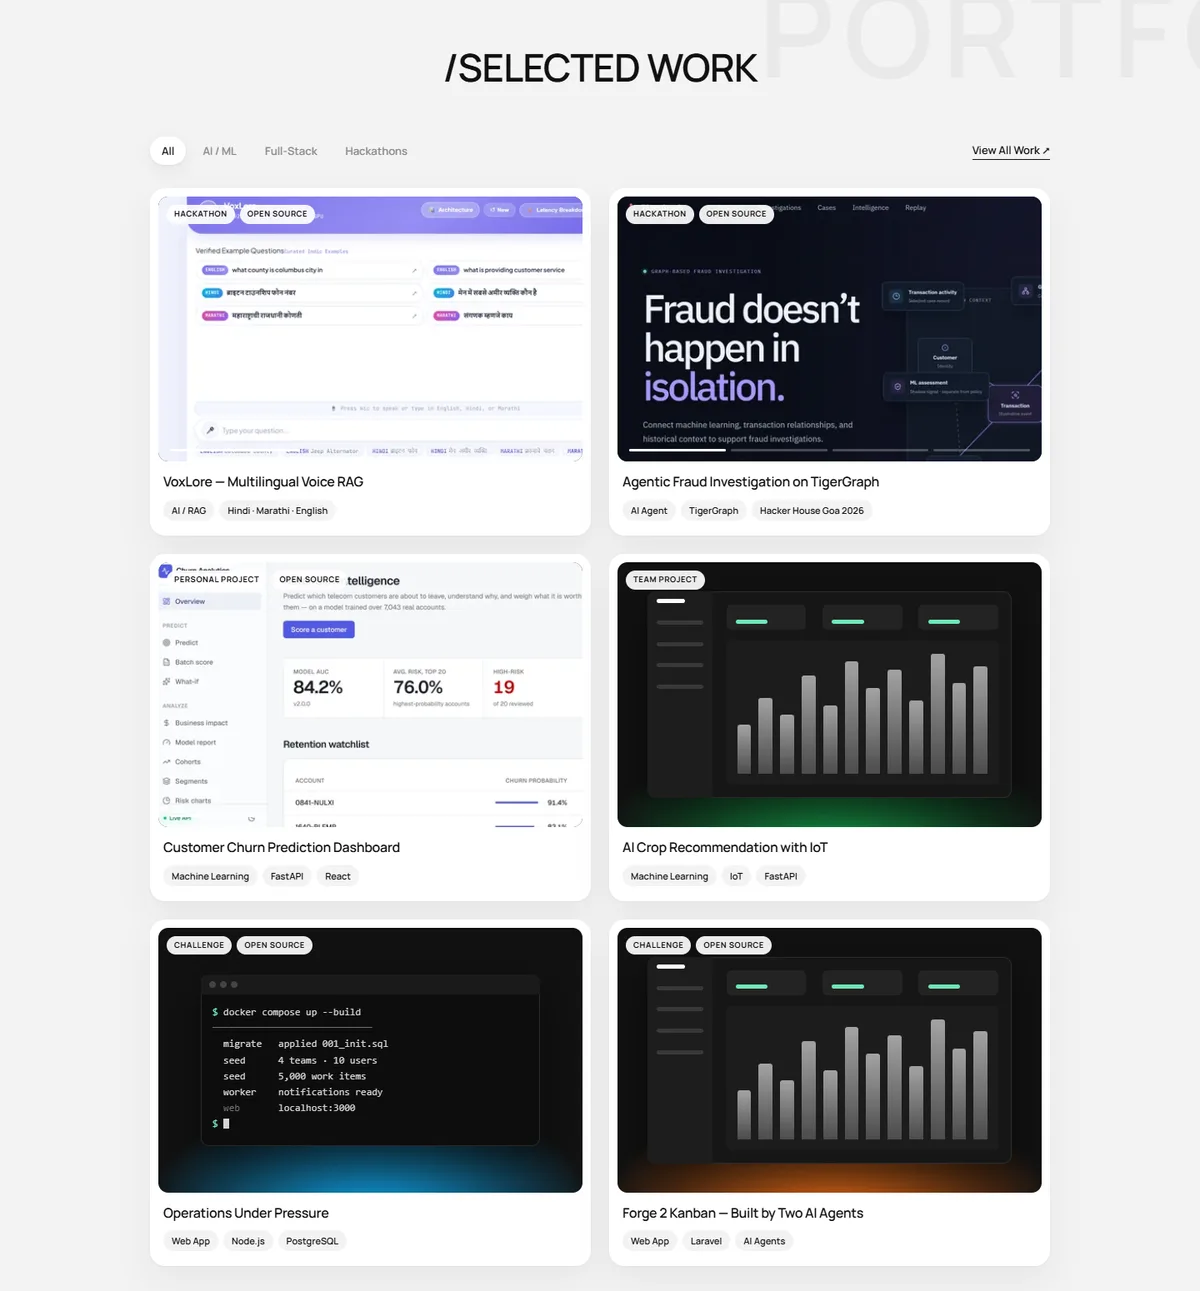
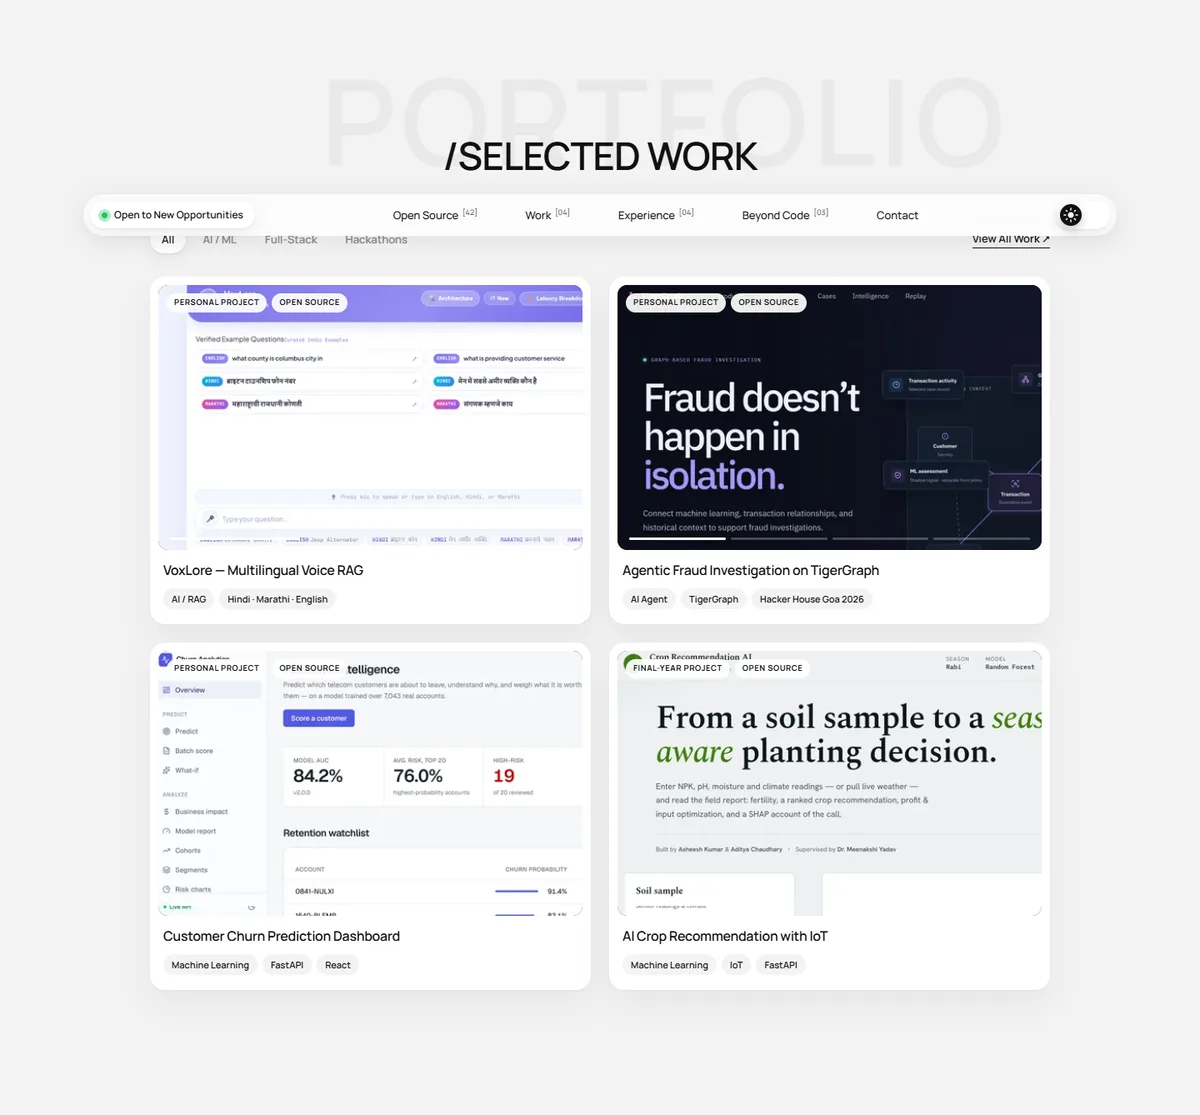
Trim projects to four and add crop recommendation screenshots
- Remove the Hackathon badge from project cards
- Remove Operations Under Pressure and Forge 2 Kanban from Selected work
- AI Crop Recommendation: four screenshots from the live Render demo
  (landing, recommendation, soil fertility and profit, SHAP), the live
  demo link, and credit as a final-year project with Aditya Chaudhary
- Work count, projects stat and README updated to match

diff --git a/main.js b/main.js
@@ -16,7 +16,7 @@ const PROJECTS = [
     title: "VoxLore — Multilingual Voice RAG",
     kind: "AI Web App",
     filter: ["ai", "web", "hack"],
-    badges: ["Hackathon", "Open Source"],
+    badges: ["Personal Project", "Open Source"],
     tags: ["AI / RAG", "Hindi · Marathi · English"],
     summary:
       "A voice question-answering system: speak or type a question in Hindi, Marathi or English and get an answer extracted from retrieved passages (no text generation), searched across 13,020,220 passage vectors held in GPU memory on an NVIDIA A100. Built for the Hacker House Goa 2026 shortlisting.",
@@ -60,7 +60,7 @@ const PROJECTS = [
     title: "Agentic Fraud Investigation on TigerGraph",
     kind: "AI Agent",
     filter: ["ai", "hack"],
-    badges: ["Hackathon", "Open Source"],
+    badges: ["Personal Project", "Open Source"],
     tags: ["AI Agent", "TigerGraph", "Hacker House Goa 2026"],
     summary:
       "An AI agent that investigates card-fraud alerts on a TigerGraph knowledge graph: it decides what kind of fraud each alert is (if any), how far it reaches and what the bank should do next, including when to gather more evidence before deciding. Built for the TigerGraph × Hacker House Goa 2026 challenge on the IEEE-CIS dataset.",
@@ -158,7 +158,7 @@ const PROJECTS = [
     title: "AI Crop Recommendation with IoT",
     kind: "ML + IoT",
     filter: ["ai"],
-    badges: ["Team Project"],
+    badges: ["Final-Year Project", "Open Source"],
     tags: ["Machine Learning", "IoT", "FastAPI"],
     summary:
       "A soil-to-harvest decision engine: soil-fertility assessment, crop recommendation with sowing-time guidance, a real-world cultivation cross-check, profitability and fertilizer optimization, and a SHAP explanation for every call. IoT-ready by design: an ESP32 field-sensor node posts to the same endpoint the web app uses.",
@@ -169,62 +169,37 @@ const PROJECTS = [
       "Kharif / Rabi / Zaid-aware sowing-time advice, plus irrigation and crop-rotation suggestions",
       "ESP32 firmware, a device simulator and a live-sensor dashboard mode",
     ],
-    role: "Team project",
+    role: "Final-year project, with Aditya Chaudhary",
     stack: "Python, FastAPI, scikit-learn, XGBoost, SHAP, ESP32 (C++)",
-    links: [{ label: "View Code", href: GH + "AI-crop-Recommendation", primary: true }],
-    mock: "dash",
+    links: [
+      { label: "View Code", href: GH + "AI-crop-Recommendation" },
+      { label: "Live Demo", href: "https://crop-recommendation-ai-pf0b.onrender.com/", primary: true },
+    ],
+    preview: {
+      slides: [
+        {
+          xl: "assets/crop-xl-01.webp",
+          sm: "assets/crop-sm-01.webp",
+          alt: "Crop Recommendation AI: from a soil sample to a season-aware planting decision, with Random Forest at 99.6% CV accuracy",
+        },
+        {
+          xl: "assets/crop-xl-02.webp",
+          sm: "assets/crop-sm-02.webp",
+          alt: "Field report recommending rice at 96%, with a real-world check against Government of India cultivation data and sowing-time advice",
+        },
+        {
+          xl: "assets/crop-xl-03.webp",
+          sm: "assets/crop-sm-03.webp",
+          alt: "Soil fertility by nitrogen, phosphorus, potassium and pH, a Parker's Nutrient Index of 2.33, and profitability per hectare",
+        },
+        {
+          xl: "assets/crop-xl-04.webp",
+          sm: "assets/crop-sm-04.webp",
+          alt: "Why this crop: SHAP contributions of rainfall, nitrogen, humidity, potassium, temperature, phosphorus and pH",
+        },
+      ],
+    },
     accent: "#16a34a",
-  },
-  {
-    slug: "operations-under-pressure",
-    title: "Operations Under Pressure",
-    kind: "Full-Stack Web App",
-    filter: ["web", "hack"],
-    badges: ["Challenge", "Open Source"],
-    tags: ["Web App", "Node.js", "PostgreSQL"],
-    summary:
-      "An internal web app for creating, assigning, tracking and resolving operational work items across teams: incidents, customer issues, payments, compliance and tasks. Built for the Newtonite Software Engineering Challenge, with a backend that stays correct under concurrency.",
-    highlights: [
-      "A server-enforced workflow with a Lead-only approval step and per-team roles (Admin, Lead, Member, Viewer)",
-      "Stays correct when two people claim the same item, edit stale data, double-click or retry a request",
-      "An append-only activity log of every change",
-      "A background worker for notification jobs",
-      "One command to run: docker compose up seeds 4 teams, 10 users and 5,000 work items",
-      "Raw SQL on PostgreSQL 16 with zod validation, tested with Vitest and Supertest",
-    ],
-    role: "Design & Development",
-    stack: "Node.js 22, TypeScript, Express, PostgreSQL 16, zod, Vitest, Docker",
-    links: [{ label: "View Code", href: GH + "newtonite-ops", primary: true }],
-    mock: "term",
-    term: `<span class="g">$</span> docker compose up --build
-<span class="d">─────────────────────────────</span>
-  migrate   applied 001_init.sql
-  seed      4 teams · 10 users
-  seed      5,000 work items
-  worker    notifications ready
-  <span class="d">web</span>       localhost:3000`,
-    accent: "#0ea5e9",
-  },
-  {
-    slug: "forge2-kanban",
-    title: "Forge 2 Kanban — Built by Two AI Agents",
-    kind: "Web App",
-    filter: ["web", "ai", "hack"],
-    badges: ["Challenge", "Open Source"],
-    tags: ["Web App", "Laravel", "AI Agents"],
-    summary:
-      "A Trello-style Kanban board, with a Laravel API on SQLite and a React (Vite) frontend, built for the Forge 2 qualifier by a two-agent system orchestrated through Slack: Hermes plans and remembers, OpenClaw writes the code.",
-    highlights: [
-      "Hermes (the brain) on Gemini 2.5 Flash: planning, memory, skills and cron",
-      "OpenClaw (the hands) on Groq gpt-oss-120b, with a local Ollama qwen2.5-coder fallback",
-      "Agents coordinated through Slack",
-      "Laravel REST API with SQLite migrations and a React + Vite frontend",
-    ],
-    role: "Design & Development",
-    stack: "Laravel, PHP, SQLite, React, Vite, Slack, Gemini, Groq",
-    links: [{ label: "View Code", href: GH + "forge2-qualifier", primary: true }],
-    mock: "dash",
-    accent: "#f97316",
   },
 ];
 
@@ -300,7 +275,7 @@ const esc = (s) =>
 // One image renders statically; several become a slideshow (see initSlideshows).
 // Intrinsic widths of images that have smaller -640/-1200 variants (made at build time),
 // so the browser can download the size it actually displays.
-const IMG_W = {"voxlore-xl-01.webp": 2256, "voxlore-xl-02.webp": 2256, "voxlore-xl-03.webp": 2256, "fraud-xl-01.webp": 2256, "fraud-xl-02.webp": 2256, "fraud-xl-03.webp": 2256, "fraud-xl-04.webp": 2256, "churn-xl-01.webp": 2256, "churn-xl-02.webp": 2256, "churn-xl-03.webp": 2256, "churn-xl-04.webp": 2256, "portrait.webp": 1000};
+const IMG_W = {"voxlore-xl-01.webp": 2256, "voxlore-xl-02.webp": 2256, "voxlore-xl-03.webp": 2256, "fraud-xl-01.webp": 2256, "fraud-xl-02.webp": 2256, "fraud-xl-03.webp": 2256, "fraud-xl-04.webp": 2256, "churn-xl-01.webp": 2256, "churn-xl-02.webp": 2256, "churn-xl-03.webp": 2256, "churn-xl-04.webp": 2256, "crop-xl-01.webp": 2256, "crop-xl-02.webp": 2256, "crop-xl-03.webp": 2256, "crop-xl-04.webp": 2256, "portrait.webp": 1000};
 function srcset(path) {
   const w = IMG_W[path.split("/").pop()];
   if (!w) return "";

diff --git a/index.html b/index.html
@@ -144,7 +144,7 @@
       >
       <nav class="nav-links" aria-label="Primary">
         <a href="#open-source">Open Source <sup id="ossCount"></sup></a>
-        <a href="#work">Work <sup>[06]</sup></a>
+        <a href="#work">Work <sup>[04]</sup></a>
         <a href="#experience">Experience <sup>[04]</sup></a>
         <a href="#beyond">Beyond Code <sup>[03]</sup></a>
         <a href="#contact">Contact</a>
@@ -293,9 +293,9 @@
             <p>contributed to: Meshery, PostHog, e2e, ClickStack, Wagtail</p>
           </div>
           <div>
-            <strong>6</strong><span>projects</span>
+            <strong>4</strong><span>projects</span>
             <p>
-              built end to end, 3 with
+              built end to end, all with
               <span class="live"
                 ><span class="dot" aria-hidden="true"></span>live</span
               >

diff --git a/README.md b/README.md
@@ -15,7 +15,7 @@ A static site: plain HTML, CSS and JavaScript with no framework and no build ste
 - **Hero.** Name, title, a short intro, a contact button and links to GitHub, LinkedIn and LeetCode.
 - **At a glance.** Merged PRs, open-source projects, projects built and hackathons. The first two numbers update from GitHub when the open-source list loads.
 - **Open source.** My pull requests to other people's repositories, loaded live from the GitHub API, latest first. `#/open-source` lists all of them, and each PR has its own page (`#/open-source/<owner>/<repo>/<number>`) with its status, who merged it, the description and the files changed. Responses are cached in `sessionStorage` for 15 minutes.
-- **Selected work.** Six projects, filterable by AI / ML, Full-Stack and Hackathons. Each card opens a project page (`#/work/<slug>`) with screenshots, the stack, highlights and links.
+- **Selected work.** Four projects, filterable by AI / ML, Full-Stack and Hackathons. Each card opens a project page (`#/work/<slug>`) with screenshots, the stack, highlights and links.
 - **Experience.** Open-source work (Meshery, PostHog, e2e) and education. Rows expand; on desktop, hovering a row shows a metric.
 - **Beyond code.** Certifications, hackathons and an open-source summary.
 - **Contact.**
